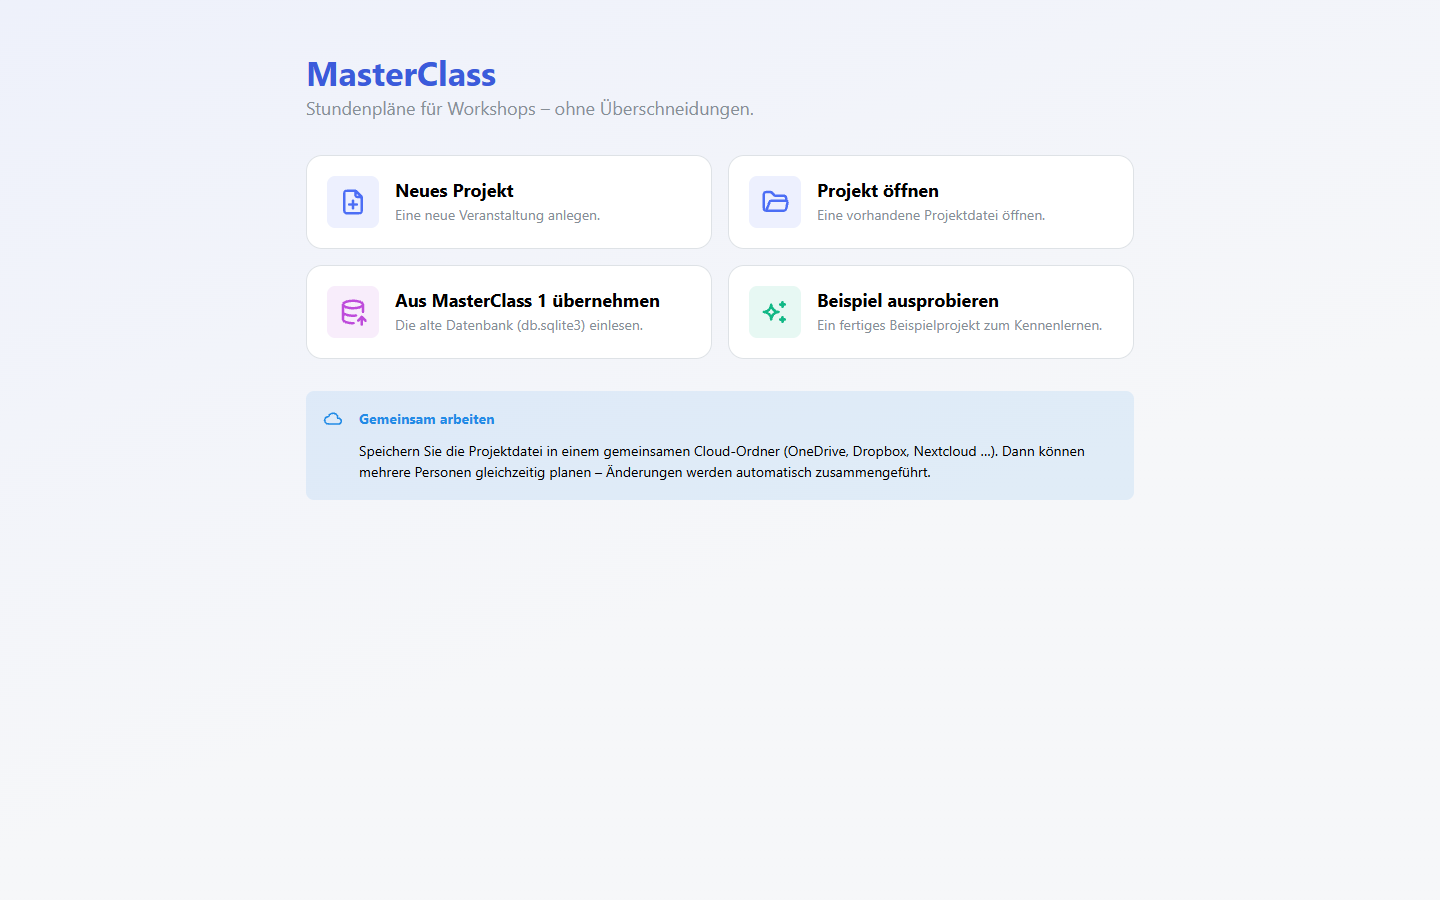
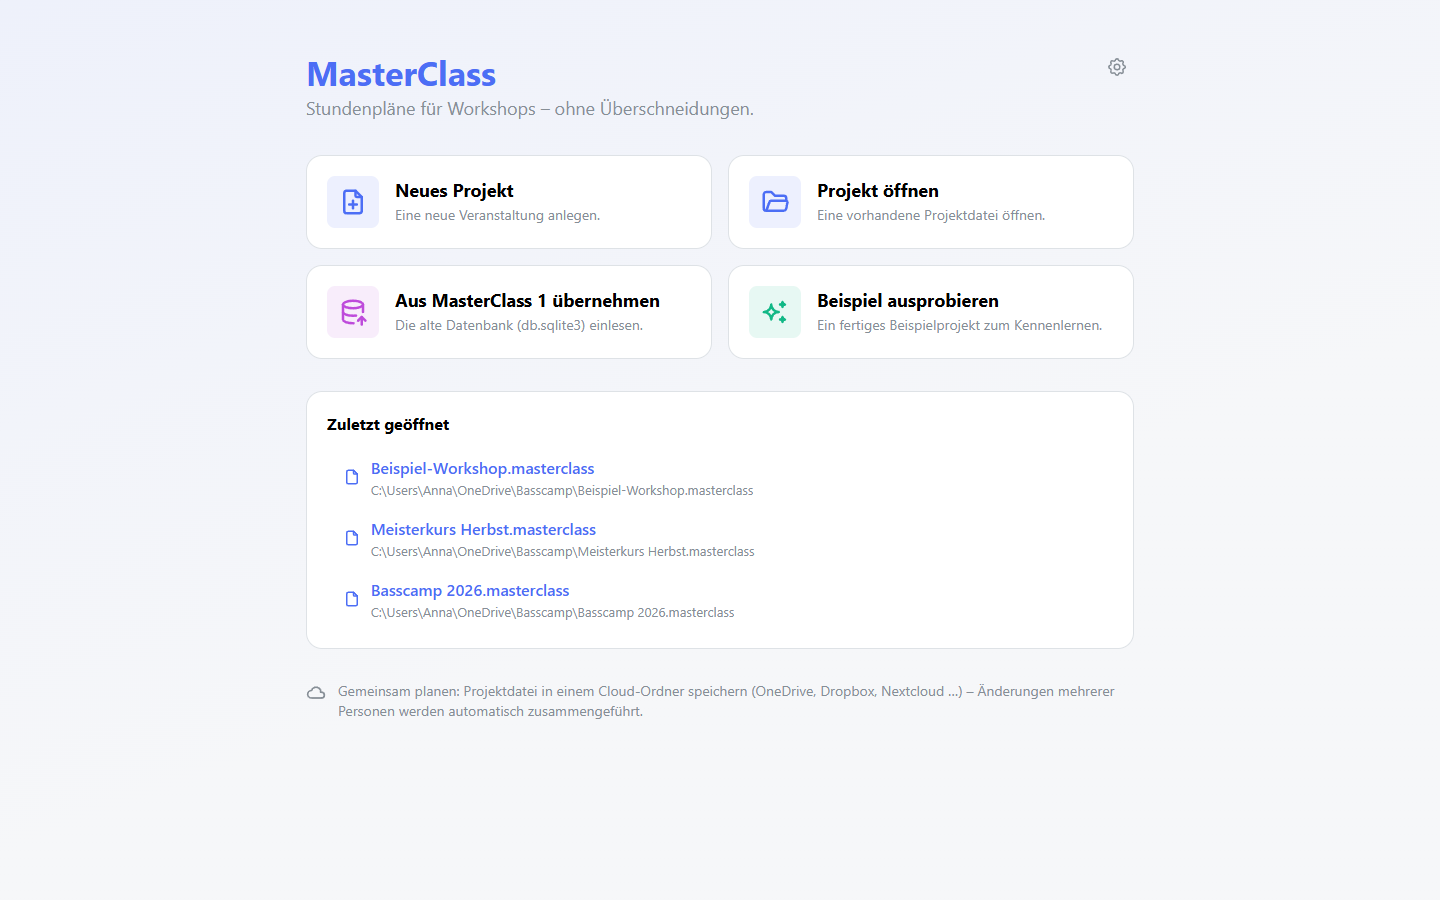
Anleitung: Projekte anlegen, öffnen und wechseln; Programm- und Projekteinstellungen

diff --git a/docs/ANLEITUNG.md b/docs/ANLEITUNG.md
@@ -6,7 +6,7 @@ Alle Bilder zeigen das mitgelieferte Beispielprojekt mit erfundenen Namen.
 **Inhalt**
 
 1. [Installation und Updates](#1-installation-und-updates)
-2. [Ein Projekt anlegen](#2-ein-projekt-anlegen)
+2. [Projekte anlegen, öffnen und wechseln](#2-projekte-anlegen-öffnen-und-wechseln)
 3. [Die Oberfläche](#3-die-oberfläche)
 4. [Schritt 1: Module und Unterrichtsarten](#4-schritt-1-module-und-unterrichtsarten)
 5. [Schritt 2: Personen, Räume und Ensembles](#5-schritt-2-personen-räume-und-ensembles)
@@ -14,7 +14,7 @@ Alle Bilder zeigen das mitgelieferte Beispielprojekt mit erfundenen Namen.
 7. [Schritt 3: Planen](#7-schritt-3-planen)
 8. [Schritt 4: Prüfen](#8-schritt-4-prüfen)
 9. [Schritt 5: Drucken – auch auf Englisch](#9-schritt-5-drucken--auch-auf-englisch)
-10. [Einstellungen: Zeitraum, Logo, Farben](#10-einstellungen-zeitraum-logo-farben)
+10. [Einstellungen: Programm und Projekt](#10-einstellungen-programm-und-projekt)
 11. [Zu mehreren an einem Plan arbeiten](#11-zu-mehreren-an-einem-plan-arbeiten)
 12. [Sichern, Rückgängig, Daten aus MasterClass 1](#12-sichern-rückgängig-daten-aus-masterclass-1)
 13. [Häufige Fragen](#13-häufige-fragen)
@@ -27,24 +27,57 @@ Alle Bilder zeigen das mitgelieferte Beispielprojekt mit erfundenen Namen.
 2. Die Datei öffnen. Zeigt Windows „Der Computer wurde durch Windows geschützt“, auf **„Weitere Informationen“** und dann **„Trotzdem ausführen“** klicken. (Das Programm ist nicht signiert; die Warnung ist normal.)
 3. Installationsordner bestätigen – Administratorrechte sind nicht nötig. Auf dem Desktop erscheint ein Symbol „MasterClass“.
 
-**Updates:** MasterClass prüft bei jedem Start mit Internetverbindung, ob es eine neue Version gibt, lädt sie im Hintergrund und installiert sie beim nächsten Schließen. Sie müssen nichts tun.
+**Updates:** MasterClass prüft bei jedem Start mit Internetverbindung (und danach alle paar Stunden), ob es eine neue Version gibt, lädt sie im Hintergrund und installiert sie beim nächsten Schließen. Sie müssen nichts tun. Ist ein Update bereit, erscheint ein Hinweis und ein Punkt am Zahnrad oben rechts; in den [Programmeinstellungen](#programmeinstellungen-zahnrad) können Sie es auch sofort installieren.
 
 **Ohne Installation:** Die Datei `MasterClass-x.y.z-portable.exe` läuft ohne Installation, z. B. vom USB-Stick. Sie aktualisiert sich aber nicht selbst – laden Sie neue Versionen dann von Hand herunter.
 
 **Ältere Versionen** bleiben auf der [Releases-Seite](https://github.com/juliangraf/MasterClass-Releases/releases) erhalten, falls Sie einmal zurück möchten.
 
-## 2. Ein Projekt anlegen
+## 2. Projekte anlegen, öffnen und wechseln
+
+Jede Veranstaltung ist ein eigenes **Projekt** und liegt in einer eigenen Datei (`.masterclass`), z. B. „Basscamp 2026.masterclass“ und „Basscamp 2027.masterclass“. In der Datei steckt alles: Personen, Termine, Module, Regeln, Gestaltung der Pläne. MasterClass zeigt immer genau ein Projekt an.
+
+### Der Startbildschirm
 
 ![Startbildschirm](bilder/01-start.png)
 
-Beim Start haben Sie vier Möglichkeiten:
+Ist kein Projekt geöffnet, sehen Sie den Startbildschirm:
 
-- **Neues Projekt** – legt eine neue Veranstaltung an. Sie wählen, wo die Projektdatei (`.masterclass`) gespeichert wird. Tipp: in einem Cloud-Ordner, wenn mehrere Personen planen (siehe [Abschnitt 11](#11-zu-mehreren-an-einem-plan-arbeiten)).
-- **Projekt öffnen** – eine vorhandene `.masterclass`-Datei öffnen. Ein Doppelklick auf die Datei im Explorer geht auch.
-- **Aus MasterClass 1 übernehmen** – die alte Datenbank `db.sqlite3` einlesen.
+- **Neues Projekt** – legt eine neue Veranstaltung an (siehe unten).
+- **Projekt öffnen** – eine vorhandene `.masterclass`-Datei auswählen. Ein Doppelklick auf die Datei im Explorer geht auch.
+- **Aus MasterClass 1 übernehmen** – die alte Datenbank `db.sqlite3` einlesen (siehe [Abschnitt 12](#12-sichern-rückgängig-daten-aus-masterclass-1)).
 - **Beispiel ausprobieren** – ein fertiges Beispielprojekt zum Kennenlernen. Hier können Sie alles gefahrlos ausprobieren.
+- **Zuletzt geöffnet** – die letzten zehn Projekte mit Speicherort. Ein Klick öffnet das Projekt. Dateien, die es nicht mehr gibt (gelöscht oder verschoben), verschwinden von selbst aus der Liste.
+- Das **Zahnrad** oben rechts öffnet die [Programmeinstellungen](#programmeinstellungen-zahnrad).
 
-Ein neues Projekt enthält schon sinnvolle Vorgaben: die Kategorien Teilnehmende, Dozenten, Räume und Ensembles sowie die Unterrichtsarten Einzelunterricht, Gruppenunterricht und Korrepetition. Alles lässt sich ändern.
+### Ein neues Projekt anlegen
+
+![Neues Projekt](bilder/01b-neues-projekt.png)
+
+1. Auf dem Startbildschirm **„Neues Projekt“** wählen. (Ist gerade ein Projekt offen: Projektname oben → „Projekt schließen“.)
+2. **Name der Veranstaltung** eingeben, z. B. „Basscamp 2027“, sowie **erster und letzter Tag**. Beides lässt sich später in den [Projekteinstellungen](#projekteinstellungen) ändern.
+3. **„Weiter“** – Windows fragt nun, **wo die Projektdatei gespeichert** werden soll. Vorgeschlagen ist der Name der Veranstaltung. Planen mehrere Personen mit, wählen Sie einen gemeinsamen Cloud-Ordner (OneDrive, Dropbox, Nextcloud, Google Drive – siehe [Abschnitt 11](#11-zu-mehreren-an-einem-plan-arbeiten)).
+4. **„Speichern“** – das Projekt ist sofort offen, Sie landen auf der Übersicht. Ab jetzt speichert MasterClass jede Änderung automatisch in diese Datei.
+
+Ein neues Projekt enthält schon sinnvolle Vorgaben: die Kategorien Teilnehmende, Dozenten, Räume und Ensembles sowie die Unterrichtsarten Einzelunterricht, Gruppenunterricht und Korrepetition. Alles lässt sich ändern. Weiter geht es mit den [Modulen](#4-schritt-1-module-und-unterrichtsarten) und den [Personen](#5-schritt-2-personen-räume-und-ensembles) – die Checkliste „So geht’s“ auf der Übersicht zeigt die Reihenfolge.
+
+### Mit mehreren Projekten arbeiten
+
+![Projektmenü](bilder/02b-projektmenue.png)
+
+Oben links steht der Name des offenen Projekts. Ein Klick darauf öffnet das **Projektmenü**; ganz oben steht, wo die Datei liegt.
+
+- **Projekt wechseln:** **„Projekt schließen“** – MasterClass speichert und zeigt den Startbildschirm. Dort unter „Zuletzt geöffnet“ das andere Projekt anklicken oder „Projekt öffnen“ wählen.
+  Schneller geht es mit einem Doppelklick auf eine andere `.masterclass`-Datei im Explorer: MasterClass speichert das offene Projekt und wechselt direkt. Es öffnet sich kein zweites Fenster.
+- **Jetzt speichern (Strg+S)** – speichert sofort. Nötig ist das nicht, MasterClass speichert ohnehin automatisch; oben rechts steht „Gespeichert“.
+- **Speichern unter …** – speichert eine **Kopie** unter neuem Namen oder an einem anderen Ort und arbeitet **mit der Kopie** weiter. Die alte Datei bleibt, wie sie war. Praktisch, um aus der Veranstaltung des Vorjahrs die nächste zu machen: „Speichern unter …“ → z. B. „Basscamp 2027“ → in den [Projekteinstellungen](#projekteinstellungen) Name und Tage ändern. Module, Regeln, Räume und Gestaltung bleiben erhalten; auch Personen und Termine werden mitkopiert – was Sie nicht mehr brauchen, löschen Sie danach.
+- **Teilnehmerliste importieren (Excel)** – siehe [Abschnitt 6](#6-anmeldeliste-aus-excel-importieren).
+- **Sicherungskopien anzeigen** – öffnet den Ordner mit den automatischen Sicherungen (je Projekt ein Unterordner, siehe [Abschnitt 12](#12-sichern-rückgängig-daten-aus-masterclass-1)).
+
+**Gut zu wissen:**
+
+- Eine Projektdatei können Sie im Explorer umbenennen, verschieben oder kopieren, solange sie in MasterClass nicht geöffnet ist. Danach einfach über „Projekt öffnen“ neu auswählen.
+- Die [Programmeinstellungen](#programmeinstellungen-zahnrad) (z. B. dunkle Darstellung) gelten für alle Projekte. Alles andere gehört zum jeweiligen Projekt.
 
 ## 3. Die Oberfläche
 
@@ -60,11 +93,11 @@ Ein neues Projekt enthält schon sinnvolle Vorgaben: die Kategorien Teilnehmende
 | 3. | **Planen** | Termine anlegen und verschieben |
 | 4. | **Prüfen** | Überschneidungen und offene Ansprüche |
 | 5. | **Drucken** | Pläne für alle, auf Deutsch oder Englisch |
-| | **Einstellungen** | Zeitraum der Veranstaltung, Logo, Farben, Sponsoren |
+| | **Projekteinstellungen** | Name und Tage der Veranstaltung, Logo, Farben, Sponsoren |
 
 Zahlen an „Prüfen“ zeigen Überschneidungen (rot) oder offene Ansprüche (orange); an „Drucken“ die Pläne, die sich seit dem letzten Druck geändert haben.
 
-**Oben** stehen der Projektname (Klick darauf: Speichern unter, Excel-Import, Sicherungskopien, Projekt schließen), der Speicherstatus („Gespeichert“) und die Pfeile für Rückgängig/Wiederholen.
+**Oben** stehen der Projektname (Klick darauf öffnet das [Projektmenü](#mit-mehreren-projekten-arbeiten): Speichern unter, Excel-Import, Sicherungskopien, Projekt schließen), der Speicherstatus („Gespeichert“), die Pfeile für Rückgängig/Wiederholen und das Zahnrad für die [Programmeinstellungen](#programmeinstellungen-zahnrad).
 
 **Mehr Platz:** Mit dem Symbol ganz unten links (▯◂) klappen Sie die Navigation auf schmale Symbole zusammen. Auch die Namensliste im Planer und die Druckeinstellungen lassen sich einklappen. MasterClass merkt sich die Einstellung.
 
@@ -266,19 +299,33 @@ Wochentage, Datum und feste Texte werden automatisch übersetzt. **Ihre eigenen 
 - Die Zahl am Knopf zeigt, wie viele Texte noch weder Übersetzung noch Vorschlag haben. „Nur fehlende“ zeigt genau diese.
 - Namen von Personen, Räumen und Ensembles werden nie übersetzt.
 
-## 10. Einstellungen: Zeitraum, Logo, Farben
+## 10. Einstellungen: Programm und Projekt
 
-![Einstellungen](bilder/17-einstellungen.png)
+Es gibt zwei Arten von Einstellungen:
 
-- **Darstellung** (gilt nur auf diesem Computer):
-  - **Farbschema:** Hell, Dunkel oder Wie Windows. Schneller geht es mit dem Sonne/Mond-Knopf oben rechts.
-  - **Akzentfarbe** der Oberfläche.
-  - **Schriftgröße:** Normal, Groß oder Sehr groß – z. B. für kleine Laptop-Bildschirme.
-  - **Termine im Planer:** zarte oder kräftige Farben (kräftig ist z. B. auf dem Beamer besser zu unterscheiden).
+| | Wo? | Gilt für |
+|---|---|---|
+| **Programmeinstellungen** | Zahnrad oben rechts (auch auf dem Startbildschirm) | diesen Computer, alle Projekte |
+| **Projekteinstellungen** | links in der Navigation | nur dieses Projekt – wird in der Projektdatei gespeichert und gilt damit für alle, die mitplanen |
 
-  Gedruckte Pläne und die Druckvorschau bleiben immer hell.
-- **Veranstaltung:** Name, erster und letzter Tag, sichtbarer Zeitraum im Planer (z. B. 8–22 Uhr), Raster beim Verschieben (z. B. 15 Minuten).
-- **Gestaltung der Pläne:** Logo oben, Überschrift, Akzentfarbe, Bild unten (z. B. Sponsoren) mit Text darüber.
+### Programmeinstellungen (Zahnrad)
+
+![Programmeinstellungen](bilder/19-programmeinstellungen.png)
+
+- **Farbschema:** Hell, Dunkel oder Wie Windows (folgt der Windows-Einstellung).
+- **Schriftgröße:** Normal, Groß oder Sehr groß – z. B. für kleine Laptop-Bildschirme oder den Beamer.
+- **Termine im Planer:** zarte oder kräftige Farben. Kräftige Farben unterscheiden die Unterrichtsarten deutlicher, z. B. am Beamer.
+- **Updates:** zeigt die installierte Version. **„Nach Updates suchen“** prüft sofort (sonst passiert das automatisch). Ist eine neue Version heruntergeladen, installiert **„Jetzt neu starten und installieren“** sie sofort – das Projekt wird vorher gespeichert. Ohne diesen Knopf wird sie beim nächsten Schließen installiert. Die portable Version aktualisiert sich nicht selbst.
+
+Gedruckte Pläne und die Druckvorschau bleiben immer hell – die Darstellung betrifft nur den Bildschirm.
+
+### Projekteinstellungen
+
+![Projekteinstellungen](bilder/17-einstellungen.png)
+
+- **Veranstaltung:** Name, erster und letzter Tag, sichtbarer Zeitraum im Planer (z. B. 8–21 Uhr) und das Raster beim Verschieben (5, 15 oder 30 Minuten).
+- **Gestaltung der gedruckten Pläne:** Überschrift auf jedem Plan (Standard: Name der Veranstaltung), Farbe der Überschriften, Logo oben, Bild unten (z. B. Sponsoren) mit Text darüber. Bilder werden beim Einfügen verkleinert, damit die Projektdatei klein bleibt.
+- **Projektdatei:** wo die Datei liegt, und **„Sicherungskopien öffnen“**.
 
 ## 11. Zu mehreren an einem Plan arbeiten
 
@@ -293,7 +340,7 @@ Legen Sie die Projektdatei in einen gemeinsamen Cloud-Ordner (OneDrive, Dropbox,
 
 - **Rückgängig / Wiederholen:** Strg+Z / Strg+Y oder die Pfeile oben rechts.
 - **Speichern:** passiert automatisch; Strg+S speichert sofort.
-- **Sicherungskopien:** MasterClass legt automatisch Sicherungen an. Projektname oben → „Sicherungskopien anzeigen“.
+- **Sicherungskopien:** MasterClass legt automatisch Sicherungen an. Projektname oben → „Sicherungskopien anzeigen“ (oder Projekteinstellungen → „Sicherungskopien öffnen“). Beim Speichern entsteht höchstens alle 5 Minuten eine Sicherung; je Projekt bleiben die letzten 40 erhalten, mit Datum und Uhrzeit im Dateinamen. **Zurückholen:** die gewünschte Sicherung im Explorer an einen eigenen Ort kopieren (z. B. neben die Projektdatei) und dort über „Projekt öffnen“ öffnen.
 - **MasterClass 1:** Startbildschirm → „Aus MasterClass 1 übernehmen“ → die alte `db.sqlite3` wählen (lag meist im Benutzerordner unter `Masterclass`). Die alte Datei wird nicht verändert.
 
 ## 13. Häufige Fragen
